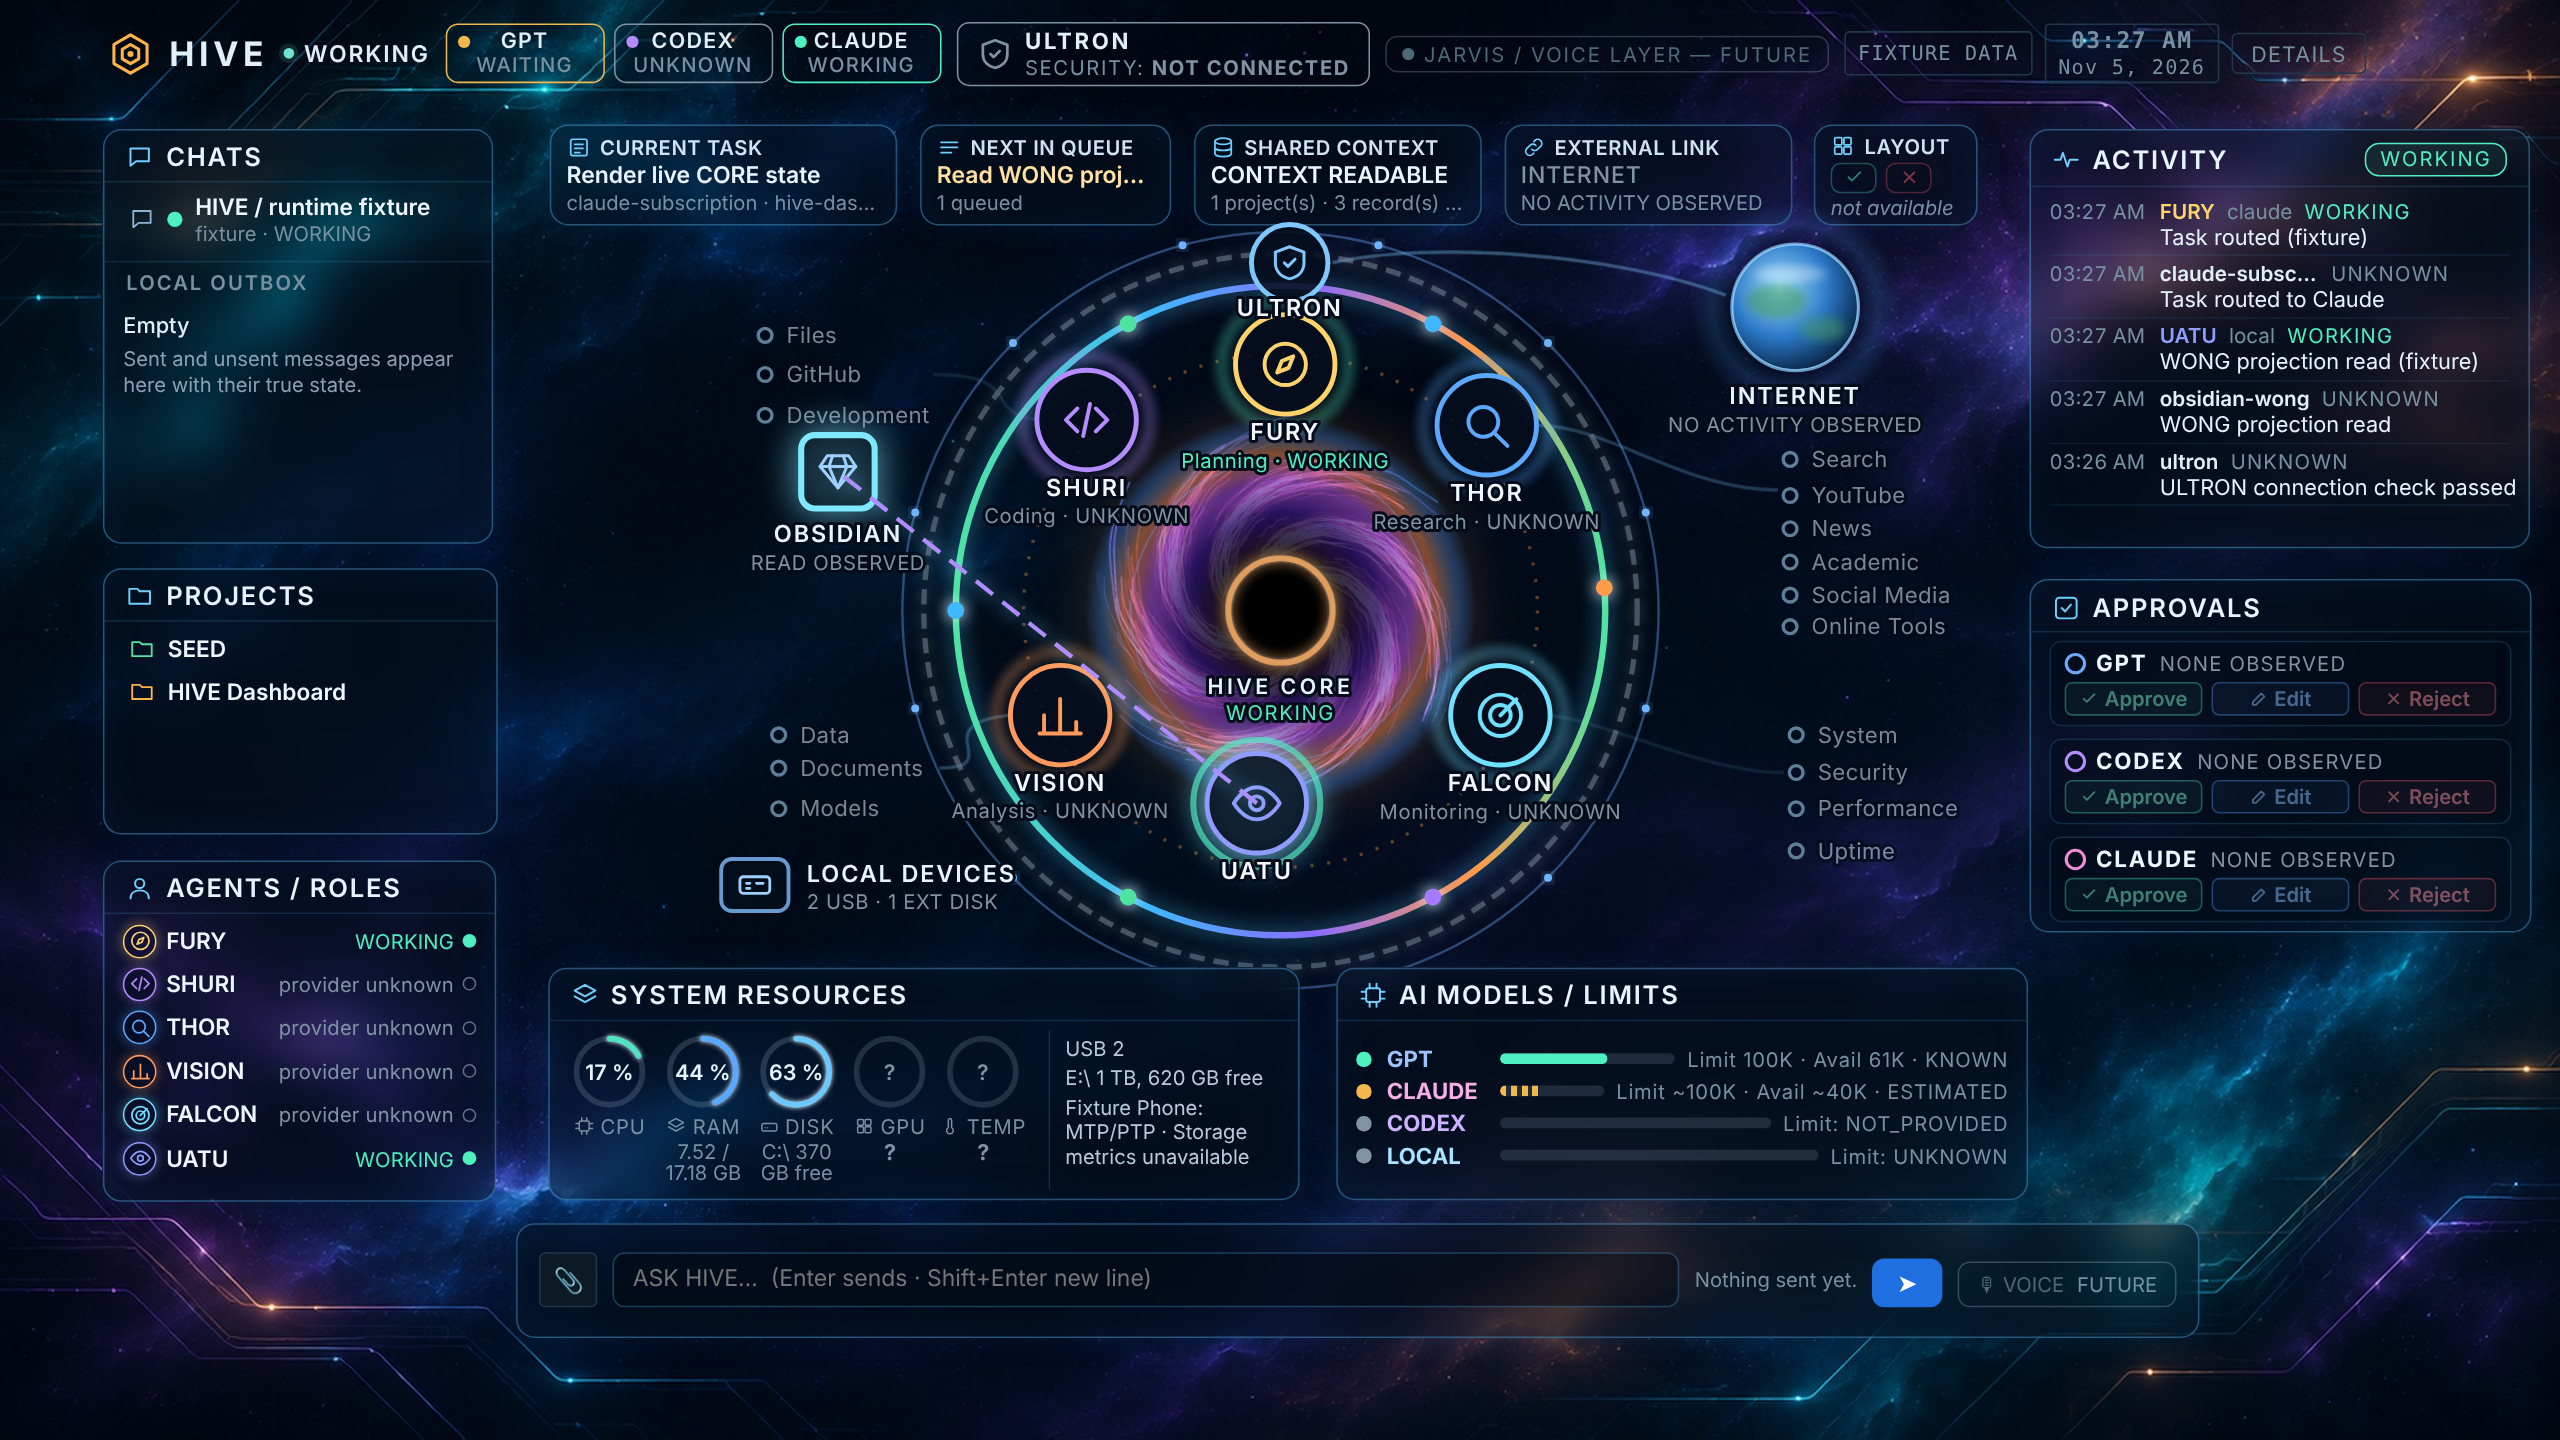
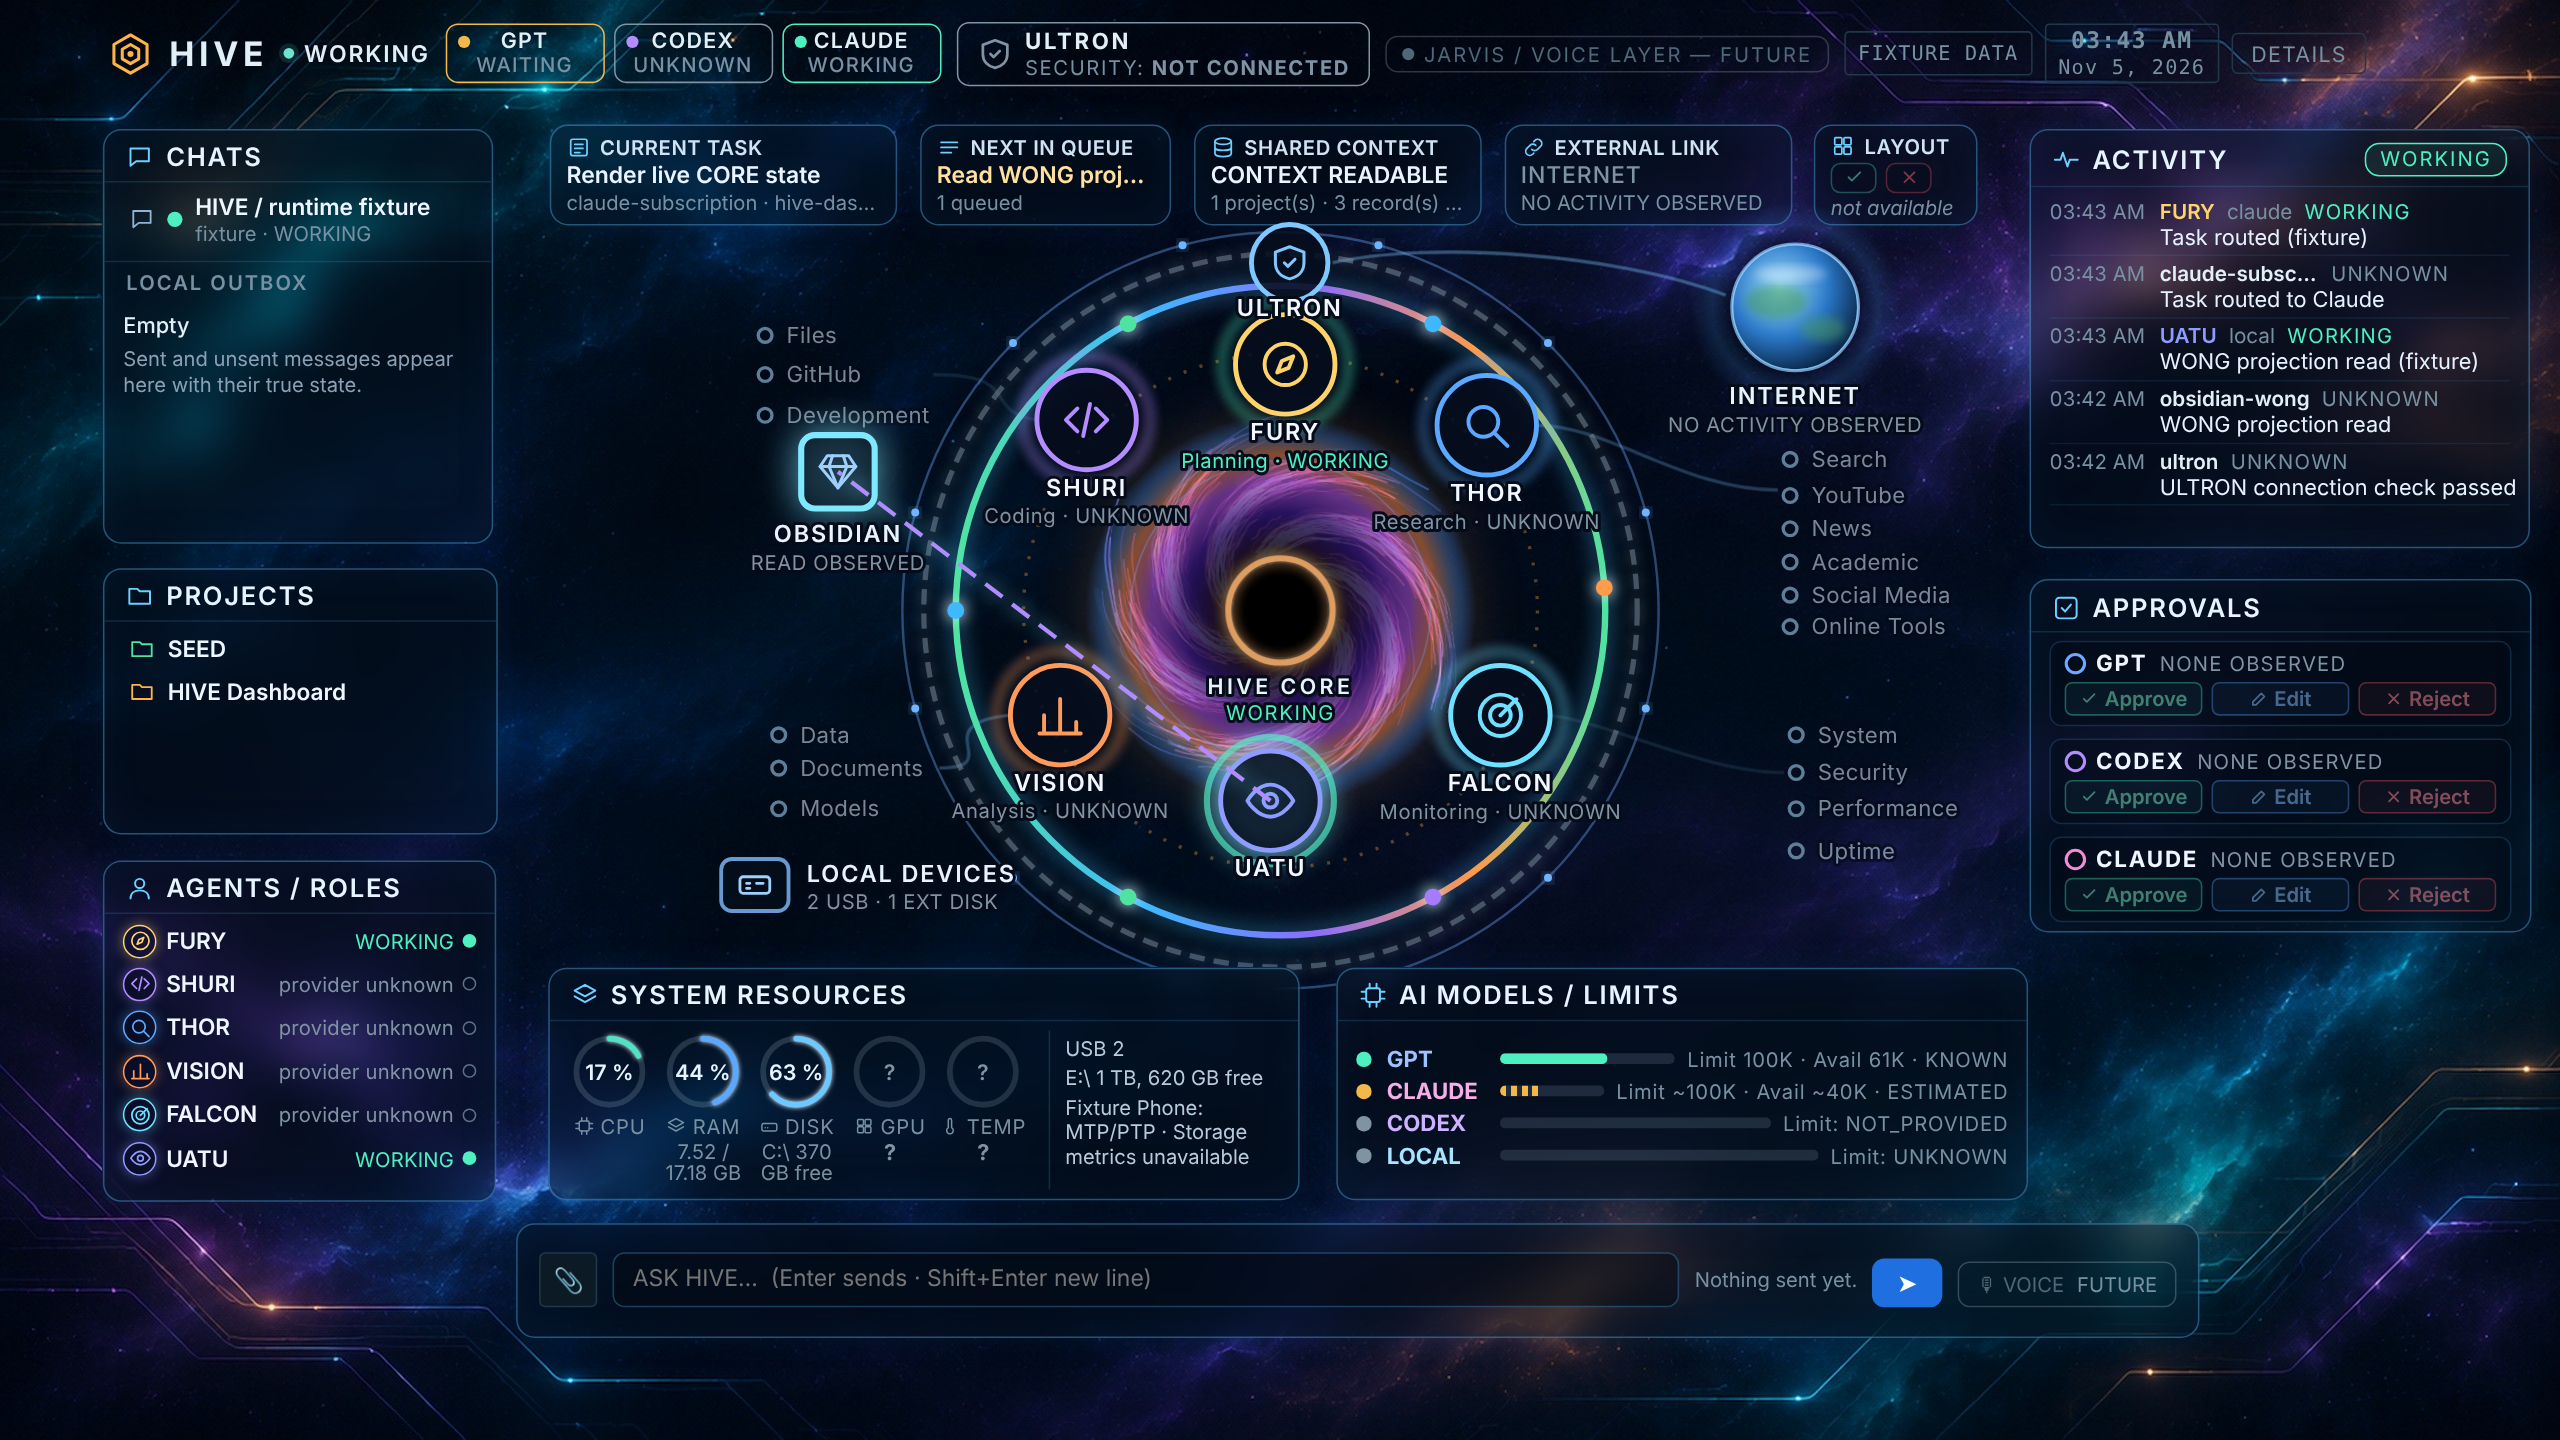
P1.1: single data path for System Resources gauges; display-only check (GAP-8 stays OPEN)
Claude-Session: https://claude.ai/code/session_01H3kenukuoJUFG5vRsMZSQa

Changed region(s): [[0.4062, 0.3125, 0.5625, 0.625], [0.375, 0.4062, 0.4062, 0.4375]]

diff --git a/hive-ops.js b/hive-ops.js
@@ -109,18 +109,17 @@
     return ux === uy ? `${x.split(' ')[0]} / ${y}` : `${x} / ${y}`;
   }
   const metricKnown = m => Boolean(m && TRUSTED.includes(m.validity) && num(m.value) !== null);
-  /* OS value first; else HIVE Core's own host metric (percent only, valid only); else unknown. Never a default. */
-  function pickMetric(osItem, coreMetric) {
+  /* One path only: the /api/system/resources item (hive_system.py). Valid-and-trusted or UNKNOWN; never a default or another source. */
+  function pickMetric(osItem) {
     if (metricKnown(osItem)) return { metric: osItem, from: 'os' };
-    if (coreMetric && coreMetric.validity === 'valid' && num(coreMetric.value) !== null && coreMetric.unit === '%') return { metric: coreMetric, from: 'hive-core' };
-    return { metric: null, from: null, reason: (osItem && osItem.reason) || (coreMetric && coreMetric.reason) || 'not provided' };
+    return { metric: null, from: null, reason: (osItem && osItem.reason) || 'not provided' };
   }
-  function resourceViews(system, coreMetrics) {
-    const items = (system && system.items) || {}; const cm = coreMetrics || {};
-    const mk = (key, label, os, core, extra) => {
-      const p = pickMetric(os, core); const v = p.metric ? num(p.metric.value) : null;
+  function resourceViews(system) {
+    const items = (system && system.items) || {};
+    const mk = (key, label, os, extra) => {
+      const p = pickMetric(os); const v = p.metric ? num(p.metric.value) : null;
       const unit = p.metric && p.metric.unit;
-      const view = { key, label, known: v !== null, value: v, unit: unit || null, pct: null, text: 'UNKNOWN', sub: null, from: p.from, title: p.metric ? `${p.from} · ${p.metric.source || 'source n/a'}` : (p.reason || 'not provided') };
+      const view = { key, label, known: v !== null, value: v, unit: unit || null, pct: null, text: 'UNKNOWN', sub: null, from: p.from, title: p.metric ? `${p.metric.validity} · source ${p.metric.source || 'n/a'} · observed ${p.metric.observed_at || 'n/a'}` : `UNKNOWN · ${p.reason || 'not provided'}${os && os.source ? ' · source ' + os.source : ''}` };
       if (v !== null) {
         if (unit === '%') { if (v < 0 || v > 100) { view.known = false; view.text = 'UNKNOWN'; view.title = 'out-of-range value rejected'; return view; } view.pct = v; view.text = Math.round(v) + ' %'; }
         else if (unit === 'C') { if (v < -40 || v > 150) { view.known = false; view.text = 'UNKNOWN'; view.title = 'out-of-range value rejected'; return view; } view.pct = Math.max(0, Math.min(100, v)); view.text = Math.round(v) + ' °C'; }
@@ -130,11 +129,11 @@
       return view;
     };
     return [
-      mk('cpu', 'CPU', items.cpu, cm.cpu),
-      mk('ram', 'RAM', items.memory, cm.memory, m => formatPair(m.used_bytes, m.total_bytes)),
-      mk('disk', 'DISK', items.disk, cm.disk, m => (formatBytes(m.free_bytes) ? `${m.drive ? m.drive + ' ' : ''}${formatBytes(m.free_bytes)} free` : null)),
-      mk('gpu', 'GPU', items.gpu, null, null),
-      mk('temp', 'TEMP', items.temperature, null, null),
+      mk('cpu', 'CPU', items.cpu),
+      mk('ram', 'RAM', items.memory, m => formatPair(m.used_bytes, m.total_bytes)),
+      mk('disk', 'DISK', items.disk, m => (formatBytes(m.free_bytes) ? `${m.drive ? m.drive + ' ' : ''}${formatBytes(m.free_bytes)} free` : null)),
+      mk('gpu', 'GPU', items.gpu),
+      mk('temp', 'TEMP', items.temperature),
     ];
   }
   /* One-line USB/external summary. Phones (MTP/PTP) are never counted as disks. An empty list from a probe

diff --git a/app.js b/app.js
@@ -366,7 +366,7 @@ document.addEventListener('focusin',e=>{ const t=e.target.closest&&e.target.clos
 document.addEventListener('focusout',e=>{ if(e.target.closest&&e.target.closest('.g-glyph')) hideGaugeTip(); });
 document.addEventListener('keydown',e=>{ if(e.key==='Escape') hideGaugeTip(); });
 function renderResources(snapshot){
-  const views=OPS.resourceViews(state.system, snapshot.metrics);
+  const views=OPS.resourceViews(state.system);
   const g=$('#resource-gauges'); if(g){ const html=views.map(gaugeMarkup).join(''); if(g.dataset.sig!==html){ g.dataset.sig=html; g.innerHTML=html; } } // unchanged markup is not re-rendered, so keyboard focus survives polling
   state.unknownGauges=views.filter(v=>!v.known).map(v=>v.label);
   const lines=OPS.deviceLines(state.system); const el=$('#sys-summary');

diff --git a/docs/hive/HANDOFF_REPORT.md b/docs/hive/HANDOFF_REPORT.md
@@ -136,3 +136,6 @@ P1.1 already existed (section 13); this pass re-checked it against the owner's r
 
 ## 19. Windows smoke test of the real PowerShellAdapter (user-reported, partial)
 Owner ran `tools/smoke_system_windows.py` at 450ecc1 on Windows: PASS (CPU 25.0 %, RAM 67.4 %, DISK 69.1 %, each with source and observed_at; GPU and TEMP UNKNOWN; hardware_present = AMD Radeon 780M Graphics; 1 volume, 5 USB devices). Details and what remains unverified are in ACCEPTANCE.md ("Windows smoke test of the real PowerShellAdapter"). GAP-8 stays OPEN: nvidia-smi success path, `--full` device detail, live UI on Windows and Node/Playwright on Windows are not verified. P1.2/P1.3 not started.
+
+## 20. P1.1 simplified to a single data path (GAP-8 stays OPEN)
+Owner direction: keep P1.1 to a read-only Windows metrics adapter plus display, with `hive_system.py` and `/api/system/resources` as the only path. Re-checked mechanically: no Task Manager/UI access, no new framework or external service, the browser makes exactly one system fetch (`/api/system/resources`) and uses no hardware APIs (new test). **Change:** the System Resources gauges no longer fall back to HIVE Core's `snapshot.metrics` for CPU/RAM/DISK (that was a second source); a gauge is valid only from the system item or it is UNKNOWN (GPU/TEMP as the `?` glyph). Gauge hover details now show validity, source and observed_at, or UNKNOWN + reason + source. **Tests:** ops 37 (one test replaced: Core metric is ignored even when valid; one added: display-only check); full suite once: Python 292, ui_contract 20, Node 89, Playwright 7+10+11+7+15 green (Linux). **Not changed, flagged:** the legacy Overview view still has three "HOST CPU / MEMORY / DISK" cards labelled `HIVE` fed by the snapshot's own metrics (a separate, source-labelled display, not part of System Resources); say if you want them removed. The Windows live-dashboard check (tools/live_check_windows.mjs, ac9b5e5) is still pending the owner's run; it should be re-run at the commit that contains this change. P1.2/P1.3 not started.

diff --git a/docs/hive/ACCEPTANCE.md b/docs/hive/ACCEPTANCE.md
@@ -188,3 +188,4 @@ Effect on tracked items (statuses unchanged unless stated): S15.15 gains a user-
 Reported by the owner on the Windows PC, default mode (no `--full`), `python tools/smoke_system_windows.py`: **PASS**. Evidence: `adapter: PowerShellAdapter (real)`, evidence validity `valid` @ 2026-11-05T03:35:35Z (`windows:powershell`); CPU valid 25.0 % (`Win32_PerfFormattedData_PerfOS_Processor`), memory valid 67.4 % (`Win32_OperatingSystem`), disk valid 69.1 % (`Get-Volume`); GPU unavailable (no reliable utilization source), temperature unavailable (no reliable temperature source); `gpu.hardware_present` = AMD Radeon 780M Graphics (capability, not telemetry); `disks_known=True` (1 volume), `usb_known=True` (5 devices). No token or credential used. This is a user-reported result, not reproduced in the Linux container.
 - **Now verified on Windows (user-reported):** the real PowerShell path runs, returns CPU/RAM/disk with source and `observed_at`, and GPU/TEMP stay UNKNOWN on a machine without nvidia-smi telemetry (AMD GPU).
 - **Still NOT verified (GAP-8 stays OPEN):** the `nvidia-smi` success path (this PC has an AMD GPU; only the "absent/not applicable" path was exercised); the per-volume/USB/MTP detail (`--full` not run); the dashboard UI fed by the live Windows adapter (gauges, Local Devices, System console); Node/Playwright suites on Windows; model limits against a real provider. Treat the 5 USB devices as reported by the OS, not as verified classification.
+- P1.1 single-path update (HANDOFF_REPORT section 20): System Resources gauges read only /api/system/resources; the HIVE Core metric fallback was removed; hover shows source/observed_at/validity/reason. The Windows live-dashboard check is NOT_RUN until the owner runs tools/live_check_windows.mjs at the new commit. GAP-8 stays OPEN.

diff --git a/BUDGET_LEDGER.md b/BUDGET_LEDGER.md
@@ -87,3 +87,6 @@ Rough effort estimates against the USD 100 allocation (dollar spend is not obser
 
 ## P1.1 data-source confirmation and adapter tightening (GAP-8 stays OPEN)
 - hive_system.py (adapter interface, perf-counter CPU, ACPI temperature removed, hardware_present), fixture_server.py (field rename), tests/test_system.py (+7), docs. Full suite once: Python 289, ui_contract 20, Node 88, Playwright 7+10+11+7+15 green. Windows path NOT verified. Effort ~$2 (rough); running total about $82.5 of $100. Subagents 5 of 8. P1.2/P1.3 not started.
+
+## P1.1 single data path (GAP-8 stays OPEN)
+- hive-ops.js (no Core-metric fallback, richer hover), app.js (call), tests/ops.test.mjs (1 replaced, 1 added), docs. Full suite once: Python 292, ui_contract 20, Node 89, Playwright 7+10+11+7+15 green. Effort ~$1.5 (rough); running total about $84 of $100 (tool-building and docs included). Subagents 5 of 8. P1.2/P1.3 not started.
